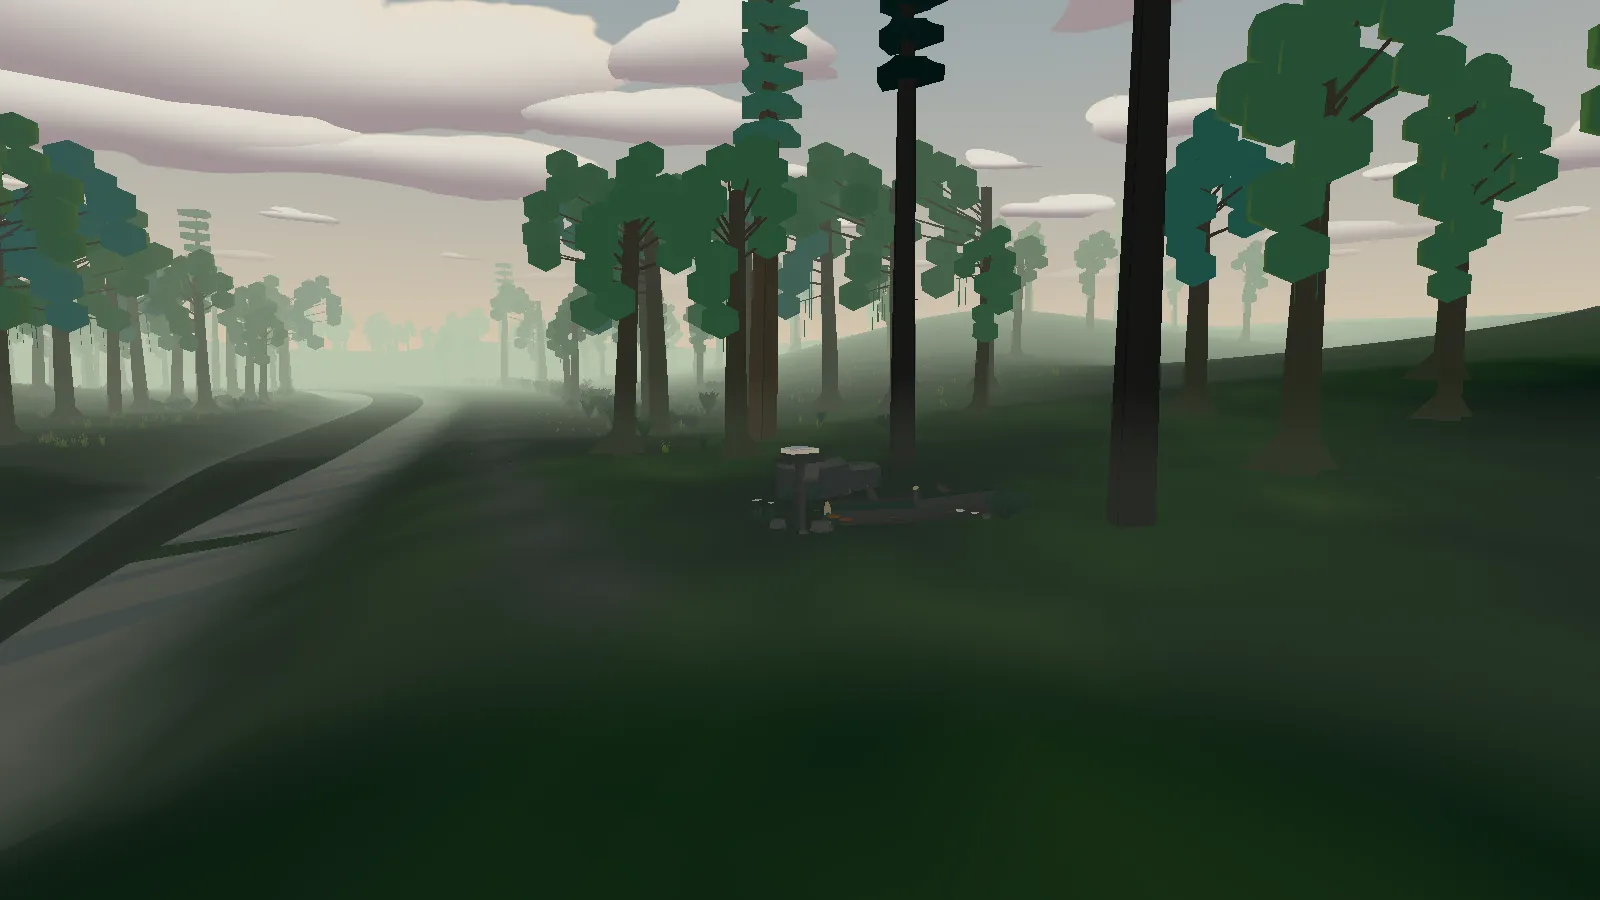
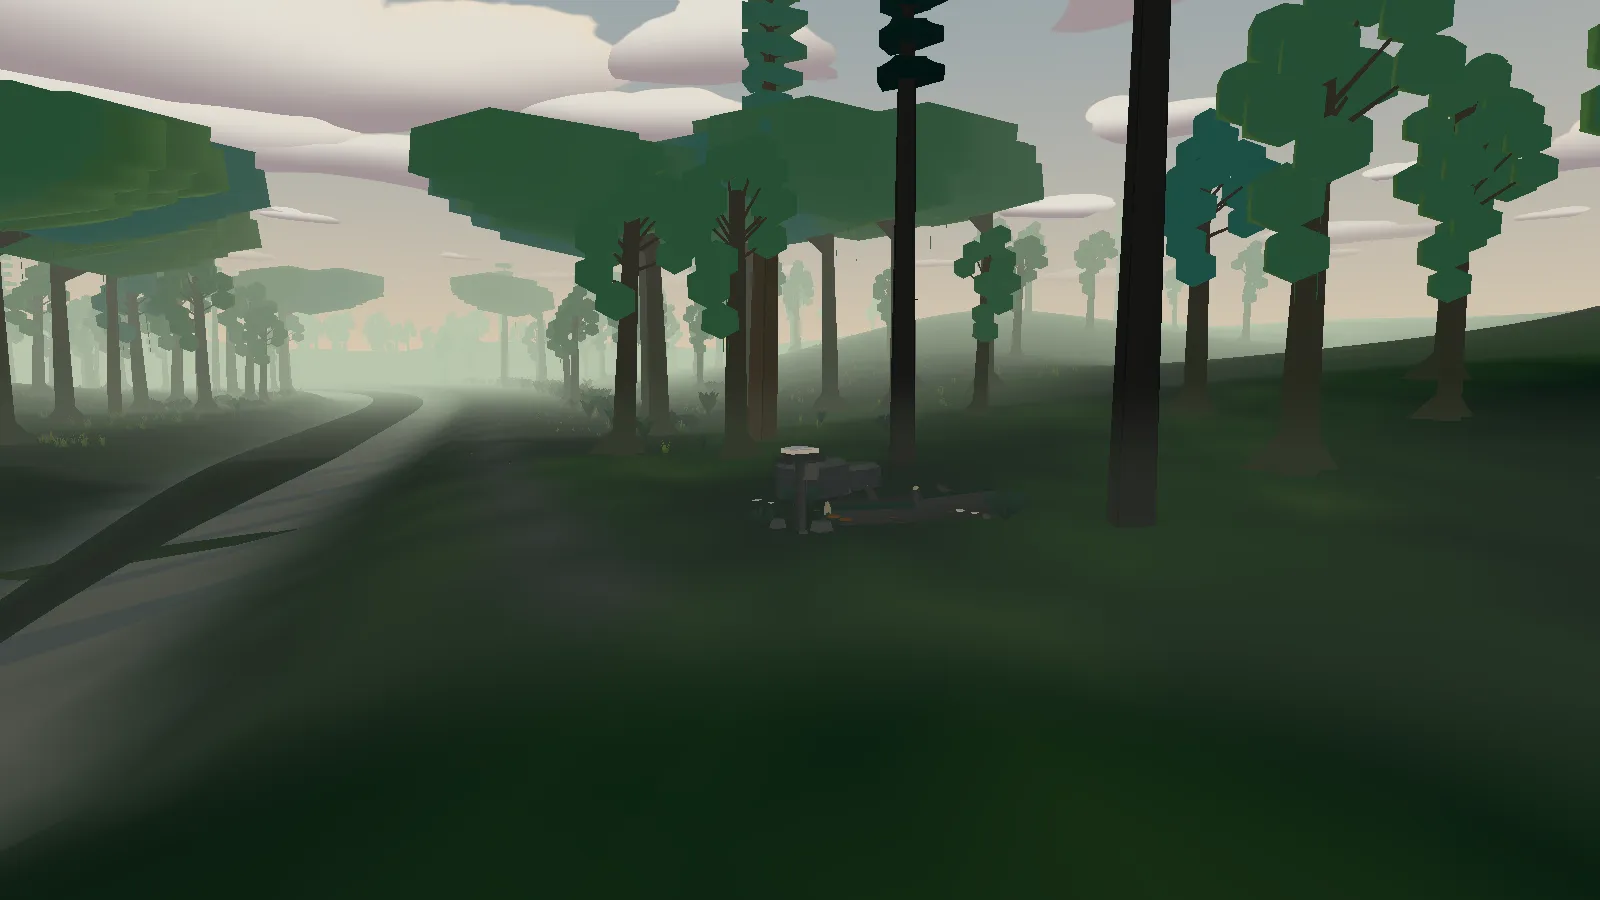
docs(showcase): forest images after B2-198 arching limbs

Changed region(s): [[0.25, 0.0933, 0.6562, 0.3733], [0.0, 0.0933, 0.25, 0.4044], [0.0, 0.2489, 0.0938, 0.3733]]

diff --git a/docs/showcase/26-asset-ky/checklist.md b/docs/showcase/26-asset-ky/checklist.md
@@ -55,7 +55,7 @@
 
 ## Còn lại
 
-- **B2-198:** tán cây vòm chưa khép trên tâm lối (cần cành lớn thật vươn ra lối). Codex hết lượt tới 13:28; giao lại khi hồi.
+- **B2-198 (xong):** cây vòm có 3 cành lớn thật vươn ra lối, tán khép trên lối (26/72 điểm tâm lối), không kéo dãn cành. Tán hơi dẹt kiểu ô; chỉnh tiếp nếu Duy muốn tròn hơn.
 
 ## T10: phiếu chấm
 
